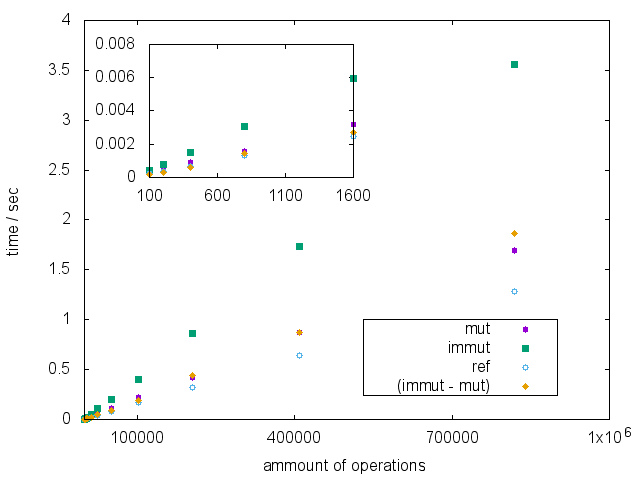
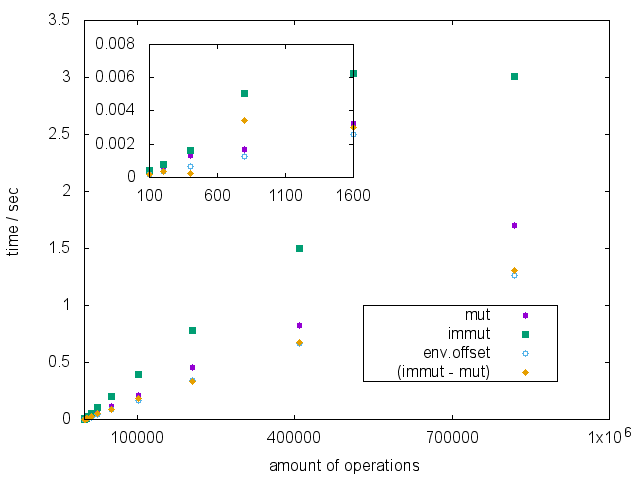
wording

diff --git a/readme.md b/readme.md
@@ -1,16 +1,20 @@
 # Immutable Objects Benchmark
 
-This repository provides you with a benchmarking script to check temporal and memory performance difference between mutable and immutable objects. We find an increase in running time, but no change in memory consumption. Allthough there _is_ an increase in running time, it does not change the order of magnitude. In our case we find an average time difference of about 2E-6 seconds per operation. Assuming 10E3 operations per pageload, we expect that once we have a large offset due to the environment (other objects, which are not immutable, as well as database interaction) it will not be possible to tell the difference.
+This repository provides you with a benchmarking script to check temporal and memory performance difference between setter operations (will be refered to as operations below) on mutable and immutable objects. We find an increase in running time, but no change in memory consumption. Allthough there _is_ an increase in running time, it does not change the order of magnitude. In our case we find an average time difference of about 2E-6 seconds per operation. Assuming 10E3 operations per pageload (which is a lot), we expect that once we have a large offset due to the environment (other objects, which are not immutable, as well as database interaction) it will not be possible to tell the difference.
 
-Our sample, **class.immutableSample.php**, is a simple object with a series of public setter that may operate in an immuable (a new immutable objects will be created, whenever you try to set a property, being identical to the object the operation is called on, up to the changed property) or a mutable (the object itself will be changed) way depending on the **$mutable** property. We create such an object and perform setter operations on them. The ammount of this operations is variable and the type of any single operation is chosen randomly at runtime, we thus hope to represent a broad variety of usecases with this benchmark. The object, on which the setter is called is replaced by the return of the setter operation, being the same object in mutable case and a new object with one different property in immutable case.
+Our sample, **class.immutableSample.php**, is a simple object with a series of public setters. The function of it's setters depends on the **$mutable** property of the object. They may be operated in two distinct ways:
+1. an immuable way, i.e. a new immutable object, being identical to the object the operation is called on up to the changed property, will be created, whenever you try to set a property. 
+2. a mutable way, i.e. the object itself will be changed. 
+We create such an object and perform setter operations on them. The amount of these operations is variable and the type of any single operation is chosen randomly at runtime, we thus hope to represent a broad variety of usecases with this benchmark. The object, on which the setter is called, is replaced by the return value of the setter operation, being the same object in the mutable case and a new object with one different property in the immutable case. Please confer class.immutableSample.php for further information.
+We also capture reference data in additional runs, in which we perform no setter operations on the object, just to measure the environmental offset in time and memory consumprion.
 
-The results are presented in folloing two graphs:
+The results are presented in following two graphs:
 
 ![graph of temporal performance](result_t.png "graph of temporal performance")
 
-Here we see the duration of execution depending on the numbers of operation. Obviously it takes longer to deal with immutable objects. The overhead above reference offset is roughly four times bigger for immutable objects compared to their mutable variants. However, the difference per operation is only about 2 microseconds (2,5 GHz Intel Core i5, 8 GB 1600 MHz DDR3, OS X El Capitan, PHP 5.5.29), which makes it relevant only on the scale of 10E5 operations.
+Here we see the duration of execution depending on the numbers of operation. As expected, it takes longer to deal with immutable objects. The overhead above reference offset is roughly four times bigger for immutable objects compared to their mutable variants. However, the difference per operation is only about 2E-6 seconds (2,5 GHz Intel Core i5, 8 GB 1600 MHz DDR3, OS X El Capitan, PHP 5.5.29), which makes it relevant only on the scale of 10E5 operations. Such heavy workload is rare in usual web applications.
 
 ![graph of memory consumption](result_m.png "graph of memory consumption")
 
-Here we see the memory conumption depending on the numbers of operation. It's same for both, mutable and nonmutable, objects and independent of ammount of the operations. The reason for this is the reference counting way of memory allocation of php, i.e. once an object is not referenced anymore, it's memory is released.
+Here we see the memory consumption depending on the numbers of operation. It's same for both, mutable and nonmutable, objects and is independent of the amount of operations. The reason for this is the way of memory allocation of PHP. It uses reference counting, i.e. once an object is not referenced anymore, it's memory is released.
 
